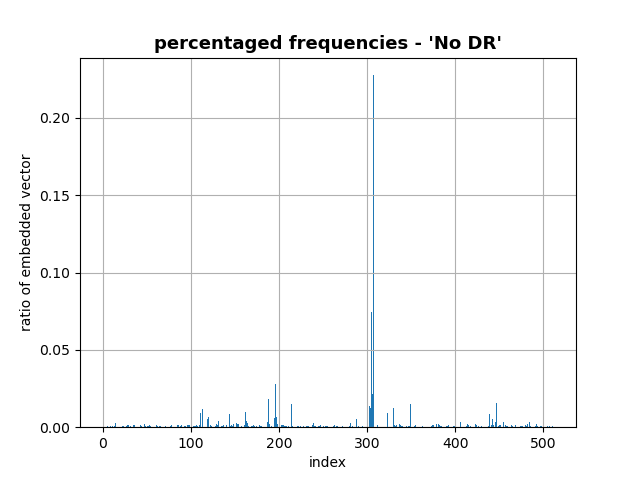
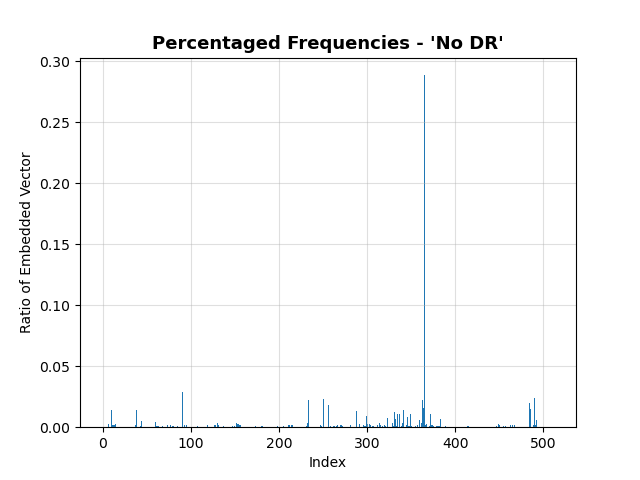
vq_vae2

diff --git a/utils/introspection.py b/utils/introspection.py
@@ -312,6 +312,16 @@ def visualize_latent_space(test_data, img_folder, csv, vq_vae,
     """
     Split test data in specific levels and build histograms over these groups.
     """
+    # Plot overlap of histograms
+    plt.figure(figsize=(12, 12))
+    plt.title("Oerlap of Histograms of all Disease States",
+              fontsize=13,
+              fontweight='bold')
+    plt.xlabel("Index")
+    plt.ylabel("Ratio of Embedded Vector")
+    plt.legend(loc='upper right')
+    plt.grid(alpha=0.4)
+
     histograms = np.zeros((levels, num_emb), dtype=np.float64)
     print("Generate histograms...")
     for j, level_data in tqdm(enumerate(data)):
@@ -333,8 +343,13 @@ def visualize_latent_space(test_data, img_folder, csv, vq_vae,
                     counts_to_add = np.bincount(indices.ravel(), minlength=num_emb)
                     counts = np.add(counts, counts_to_add)
 
+        plt.hist(counts, bins=np.arange(num_emb), density=True, label=disease_states[j])
+
         # Normalize counts
         histograms[j] = np.divide(counts, np.sum(counts))
+
+    plt.savefig(f"{network_dir}/histograms/overlap_of_histograms.png")
+    plt.close()
 
     hist_intersection = np.amin(histograms, axis=0)
 
@@ -342,49 +357,33 @@ def visualize_latent_space(test_data, img_folder, csv, vq_vae,
         # Sort indices of embedded vectors regarding best order
         hist = hist[best_order]
 
-        #plt.hist(hist, bins=np.arange(num_emb), density=True)
         plt.bar(np.arange(num_emb), hist)
-        plt.title(f"percentaged frequencies - \'{disease_states[j]}\'",
+        plt.title(f"Percentaged Frequencies - \'{disease_states[j]}\'",
                   fontsize=13,
                   fontweight='bold'
                   )
-        plt.xlabel("index")
-        plt.ylabel("ratio of embedded vector")
-        plt.grid()
+        plt.xlabel("Index")
+        plt.ylabel("Ratio of Embedded Vector")
+        plt.grid(alpha=0.4)
         plt.savefig(f"{network_dir}/histograms/histogram_{disease_states[j]}.png")
         plt.show(block=False)
         plt.pause(2)
         plt.close()
 
-        #plt.hist(np.subtract(hist, hist_intersection), bins=np.arange(num_emb), density=True)
-        plt.bar(np.arange(num_emb), np.subtract(hist, hist_intersection))
-        plt.title(f"percentaged frequencies - \'{disease_states[j]}\' - difference",
+        plt.bar(np.arange(num_emb), np.subtract(hist, hist_intersection[best_order]))
+        plt.title(f"Percentaged Frequencies - Difference - \'{disease_states[j]}\' ",
                   fontsize=13,
                   fontweight='bold'
                   )
-        plt.grid()
-        plt.xlabel("index")
-        plt.ylabel("ratio of embedded vector")
+        plt.grid(alpha=0.4)
+        plt.xlabel("Index")
+        plt.ylabel("Ratio of Embedded Vector")
         plt.savefig(f"{network_dir}/histograms/histogram_{disease_states[j]}_diff.png")
         plt.show(block=False)
         plt.pause(2)
         plt.close()
 
-    # Plot overlap of histograms
-    plt.figure(figsize=(12, 12))
-    for i, hist in enumerate(histograms):
-        hist = hist[best_order]
-        #plt.hist(hist, bins=np.arange(num_emb), density=True, alpha=0.5, label=disease_states[i])
-        plt.bar(np.arange(num_emb), hist, color=colormap[i])
 
-    plt.title("multiple histograms of all disease states",
-              fontsize=13,
-              fontweight='bold')
-    plt.legend(loc='upper right')
-    plt.grid()
-    plt.show()
-    plt.savefig(f"{network_dir}/histograms/overlap_of_histogram.png")
-    plt.close()
 
 
 
